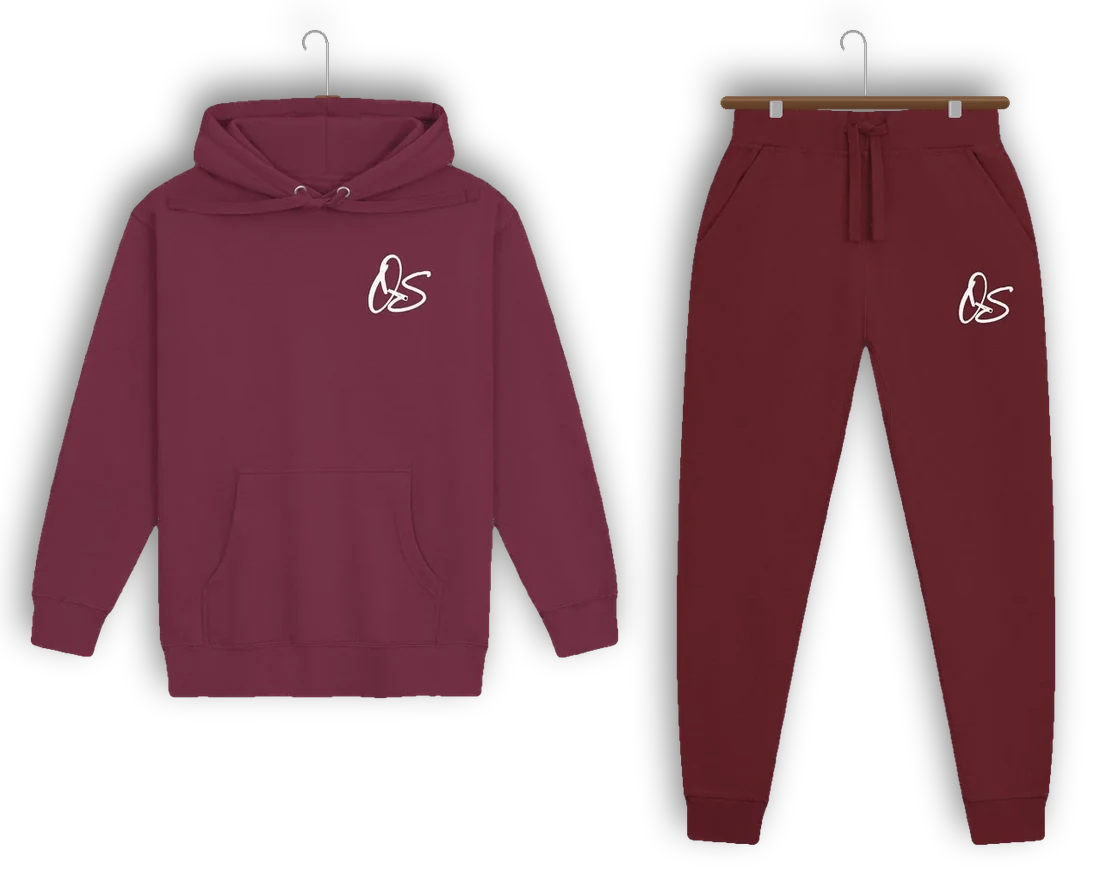
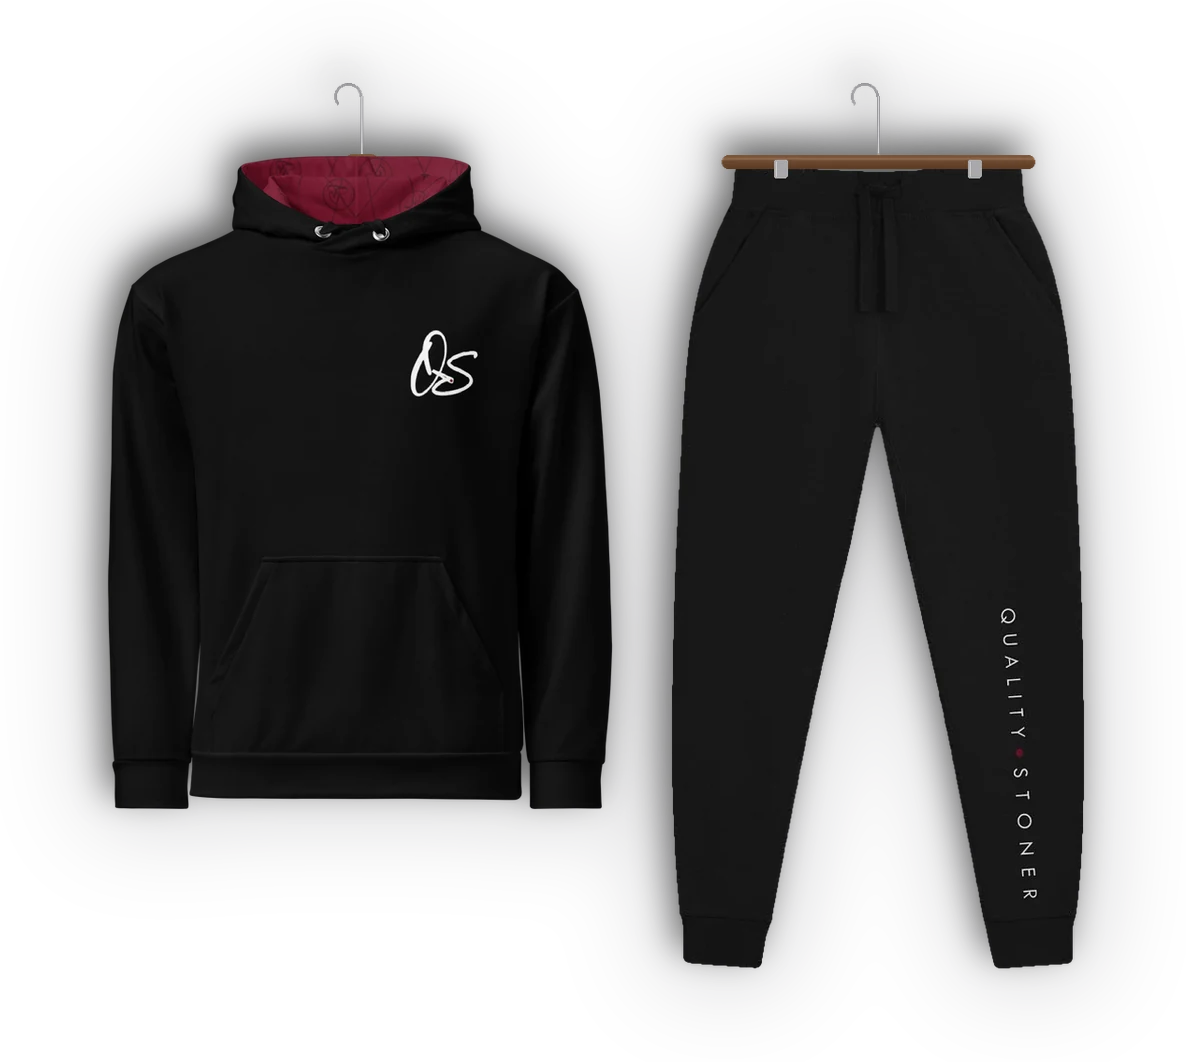
home-b: black set hero (Locket Hoodie + Bookmark Joggers, black), grid without burgundy pair

diff --git a/assets/qs/home-b/qs-home-b.js b/assets/qs/home-b/qs-home-b.js
@@ -1,7 +1,8 @@
 /* Quality Stoner home — concept B "dark editorial" (Fourthwall Custom HTML section 246a3a20), Oct 17 2026.
    Section HTML is one line: <script src="https://cdn.jsdelivr.net/gh/Tarius87/terrius-site@<commit>/assets/qs/home-b/qs-home-b.js"></script>
-   Renders in place of the script tag: hero (spaced wordmark, Signet set on hangers, NEW / THE SIGNET SET, burgundy rule,
+   Renders in place of the script tag: hero (spaced wordmark, the black set on hangers, NEW / THE BLACK SET, burgundy rule,
    outline Shop Now) + two charcoal studio photos -> calm grid (name + price) -> one 360 text link.
+   Oct 17 2026: hero set = Locket Hoodie — Black + Bookmark Joggers — Black (burgundy Signet pair retired: blank dyes didn't match).
    Restyles on the home page only (html.qsb-on): theme header (black bar, spaced caps, white monogram), newsletter section
    acebb3b4 (minimal underline form; still the theme's own form -> Kit), theme footer (dark). Hides the floating #qs-sw pill
    and the retired 863702ee section. Prices/names refresh from each product page's JSON-LD at runtime.
@@ -13,12 +14,12 @@ var S863='.custom-html--fw-section-custom-html-863702ee-37d1-48a0-8c17-b9a8c0e04
 var NL='[data-section-id="fw-section-newsletter-acebb3b4-0bfc-43c5-81bc-5509c22e59a5"]';
 /* grid: [slug, short name, fallback price, full name] — order alternates colour on 2-col phone and 4-col desktop */
 var GRID=[
- ['embroidered-qs-hoodie-burgundy','Signet Hoodie','58','Signet Hoodie — Burgundy'],
+ ['seal-crew-burgundy','Wax Seal Crew','49','Wax Seal Crew — Burgundy'],
  ['heavyweight-tee-black','Calling Card Tee','29','Calling Card Tee — Black'],
  ['wordmark-leg-joggers-black','Bookmark Joggers','45','Bookmark Joggers — Black'],
  ['wordmark-hoodie-white','Masthead Hoodie','58','Masthead Hoodie — White'],
  ['embroidered-qs-crew-black','Signet Crew','49','Signet Crew — Black'],
- ['embroidered-qs-joggers-burgundy','Signet Joggers','45','Signet Joggers — Burgundy'],
+ ['scattered-monogram-hoodie-white','Pressed Flower Hoodie','58','Pressed Flower Hoodie — White'],
  ['damask-lined-hoodie-black','Locket Hoodie','58','Locket Hoodie — Black'],
  ['wordmark-crew-white','Masthead Crew','49','Masthead Crew — White']];
 function esc(s){return String(s).replace(/&/g,'&amp;').replace(/</g,'&lt;').replace(/"/g,'&quot;')}
@@ -59,7 +60,7 @@ H+'aside[data-drawer="mobile-menu"] .mobile-menu__section{border-color:#262626!i
 '.qsb img{display:block;max-width:100%;border:0}',
 '.qsb p,.qsb span{color:inherit}',
 '.qsb-hero{display:grid;gap:8px;padding:0 8px}',
-'.qsb-pan{background:#151515;display:flex;flex-direction:column;align-items:center;text-align:center;padding:52px 22px 44px}',
+'.qsb-pan{background:#151515 radial-gradient(85% 48% at 50% 46%,#262627 0%,#1b1b1c 55%,#151515 100%);display:flex;flex-direction:column;align-items:center;text-align:center;padding:52px 22px 44px}',
 '.qsb-wm{width:min(250px,70%);height:auto}',
 '.qsb-hl{display:block;width:100%;max-width:440px}',
 '.qsb-hang{width:100%;max-width:440px;height:auto;margin:34px 0 26px}',
@@ -136,12 +137,12 @@ function card(g){return '<a class="qsb-pc" data-s="'+g[0]+'" href="/products/'+g
 var HTML='<div class="qsb" id="qs-home">'+
  '<section class="qsb-hero">'+
   '<div class="qsb-pan"><img class="qsb-wm" src="'+I+'word-white.png" alt="Quality Stoner" width="1400" height="72">'+
-  '<a href="/products/embroidered-qs-hoodie-burgundy" class="qsb-hl"><img class="qsb-hang" src="'+I+'hang.webp" alt="Signet Hoodie and Signet Joggers in burgundy, on wooden hangers" width="1100" height="892"></a>'+
-  '<p class="qsb-new">New</p><p class="qsb-col">The Signet Set<br>Hoodie &amp; Joggers</p><div class="qsb-rule"></div>'+
-  '<a class="qsb-btn" href="/products/embroidered-qs-hoodie-burgundy">Shop Now</a></div>'+
+  '<a href="/products/damask-lined-hoodie-black" class="qsb-hl"><img class="qsb-hang" src="'+I+'hang.webp" alt="Locket Hoodie and Bookmark Joggers in black, on wooden hangers" width="1186" height="1062"></a>'+
+  '<p class="qsb-new">New</p><p class="qsb-col">The Black Set<br>Locket Hoodie &amp; Bookmark Joggers</p><div class="qsb-rule"></div>'+
+  '<a class="qsb-btn" href="/products/damask-lined-hoodie-black">Shop Now</a></div>'+
   '<div class="qsb-ph2">'+
-   '<a href="/collections/hoodies-crews" aria-label="Hoodies &amp; Crews"><picture><source media="(min-width:900px)" srcset="'+I+'stack-w.webp"><img src="'+I+'stack.webp" alt="Folded hoodies, Signet Hoodie in burgundy on top" width="1100" height="1000"></picture></a>'+
-   '<a href="/products/embroidered-qs-joggers-burgundy" aria-label="Signet Joggers — Burgundy"><picture><source media="(min-width:900px)" srcset="'+I+'lay-w.webp"><img src="'+I+'lay.webp" alt="Signet Joggers in burgundy" width="1100" height="1000"></picture></a>'+
+   '<a href="/collections/hoodies-crews" aria-label="Hoodies &amp; Crews"><picture><source media="(min-width:900px)" srcset="'+I+'stack-w.webp"><img src="'+I+'stack.webp" alt="Folded black hoodies and crews, Locket Hoodie on top" width="1100" height="1000"></picture></a>'+
+   '<a href="/products/wordmark-leg-joggers-black" aria-label="Bookmark Joggers — Black"><picture><source media="(min-width:900px)" srcset="'+I+'lay-w.webp"><img src="'+I+'lay.webp" alt="Bookmark Joggers in black" width="1100" height="1000"></picture></a>'+
   '</div></section>'+
  '<section class="qsb-sec"><div class="qsb-sh"><span class="qsb-k">The pieces</span><a href="/collections/all">View all</a></div><div class="qsb-grid">'+GRID.map(card).join('')+'</div></section>'+
  '<a class="qsb-walk" href="/pages/walk-the-store"><span>Look around the 360&deg; store &nbsp;&rarr;</span></a>'+
